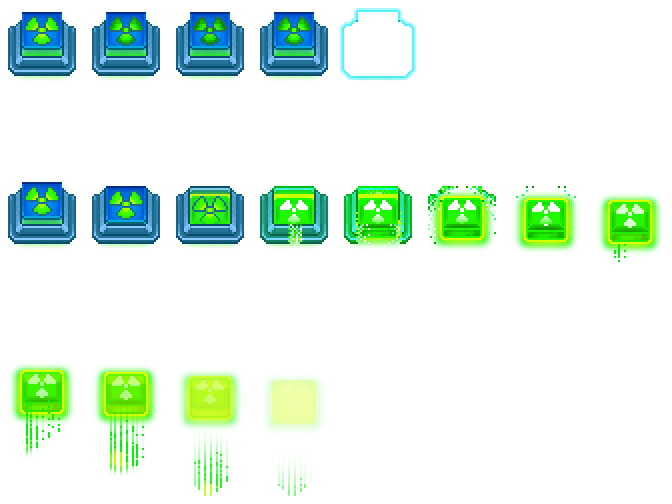
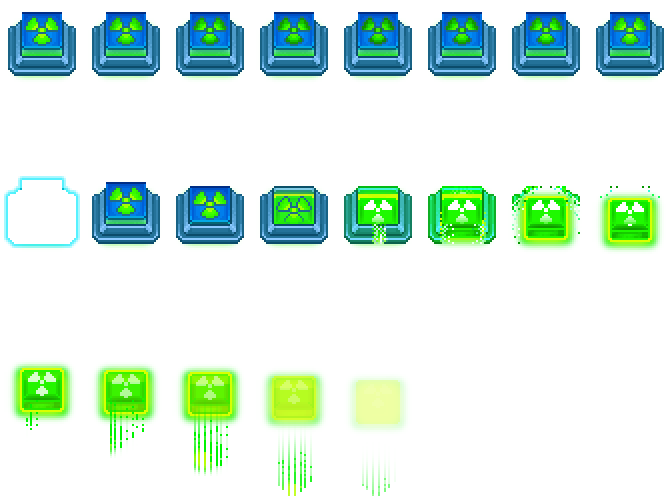
Update power-up

diff --git a/src/demo/enemy.cc b/src/demo/enemy.cc
@@ -35,7 +35,7 @@ constexpr int idle1_frame_count[][3] = {{7, 7, -1},
                                         {7, 7, -1},
                                         {-1, -1, 7},
                                         {6, 6, -1},
-                                        {0, 0, 4}};
+                                        {0, 0, 8}};
 constexpr int idle2_frame_count[][3] = {{16, 16, -1},
                                         {16, 16, -1},
                                         {-1, -1, 16},
@@ -536,11 +536,14 @@ void Enemy::SpawnUnit(EnemyType enemy_type,
 
   e.target_animator.Attach(&e.target);
 
-  e.blast_animator.SetEndCallback(Animator::kFrames,
-                                  [&]() -> void { e.blast.SetVisible(false); });
+  e.blast_animator.SetEndCallback(Animator::kFrames, [&]() -> void {
+    e.blast.SetVisible(false);
+    if (e.enemy_type == kEnemyType_PowerUp)
+      e.marked_for_removal = true;
+  });
   if (enemy_type == kEnemyType_PowerUp) {
     e.blast.SetFrame(8);
-    e.blast_animator.SetFrames(12, 16);
+    e.blast_animator.SetFrames(13, 18);
   } else if (damage_type == kDamageType_Green) {
     e.blast.SetFrame(0);
     e.blast_animator.SetFrames(6, 18);
